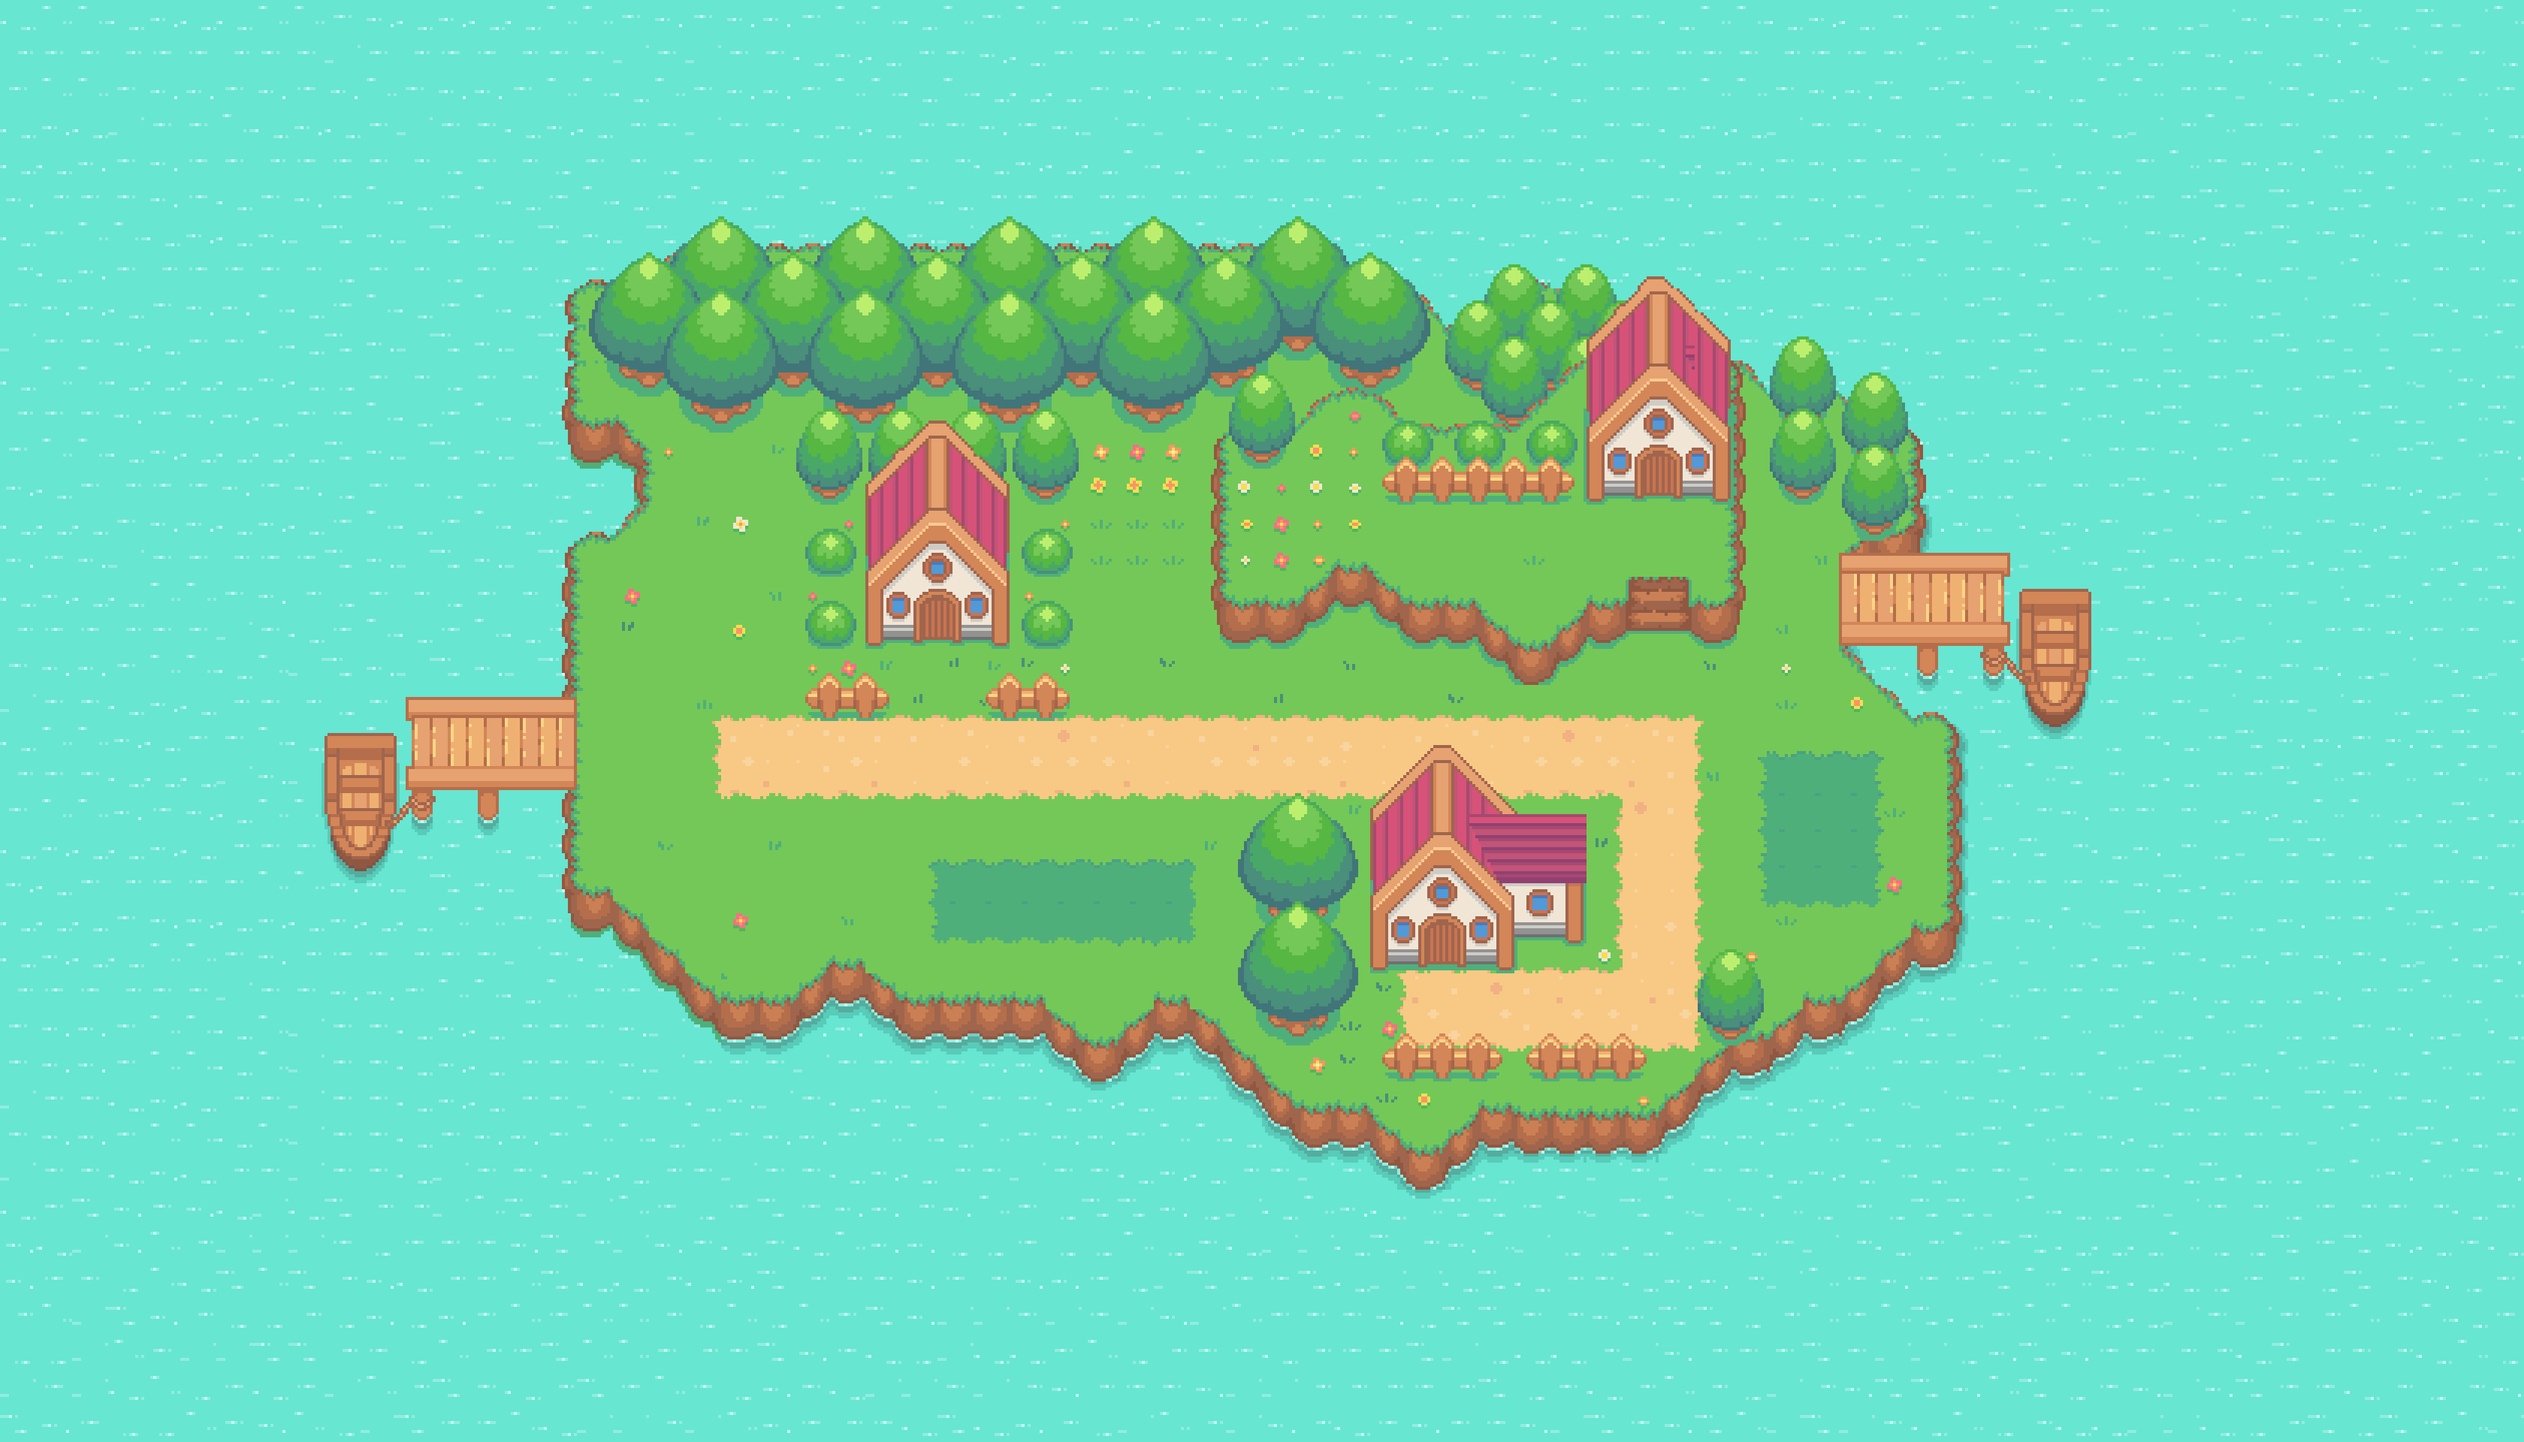
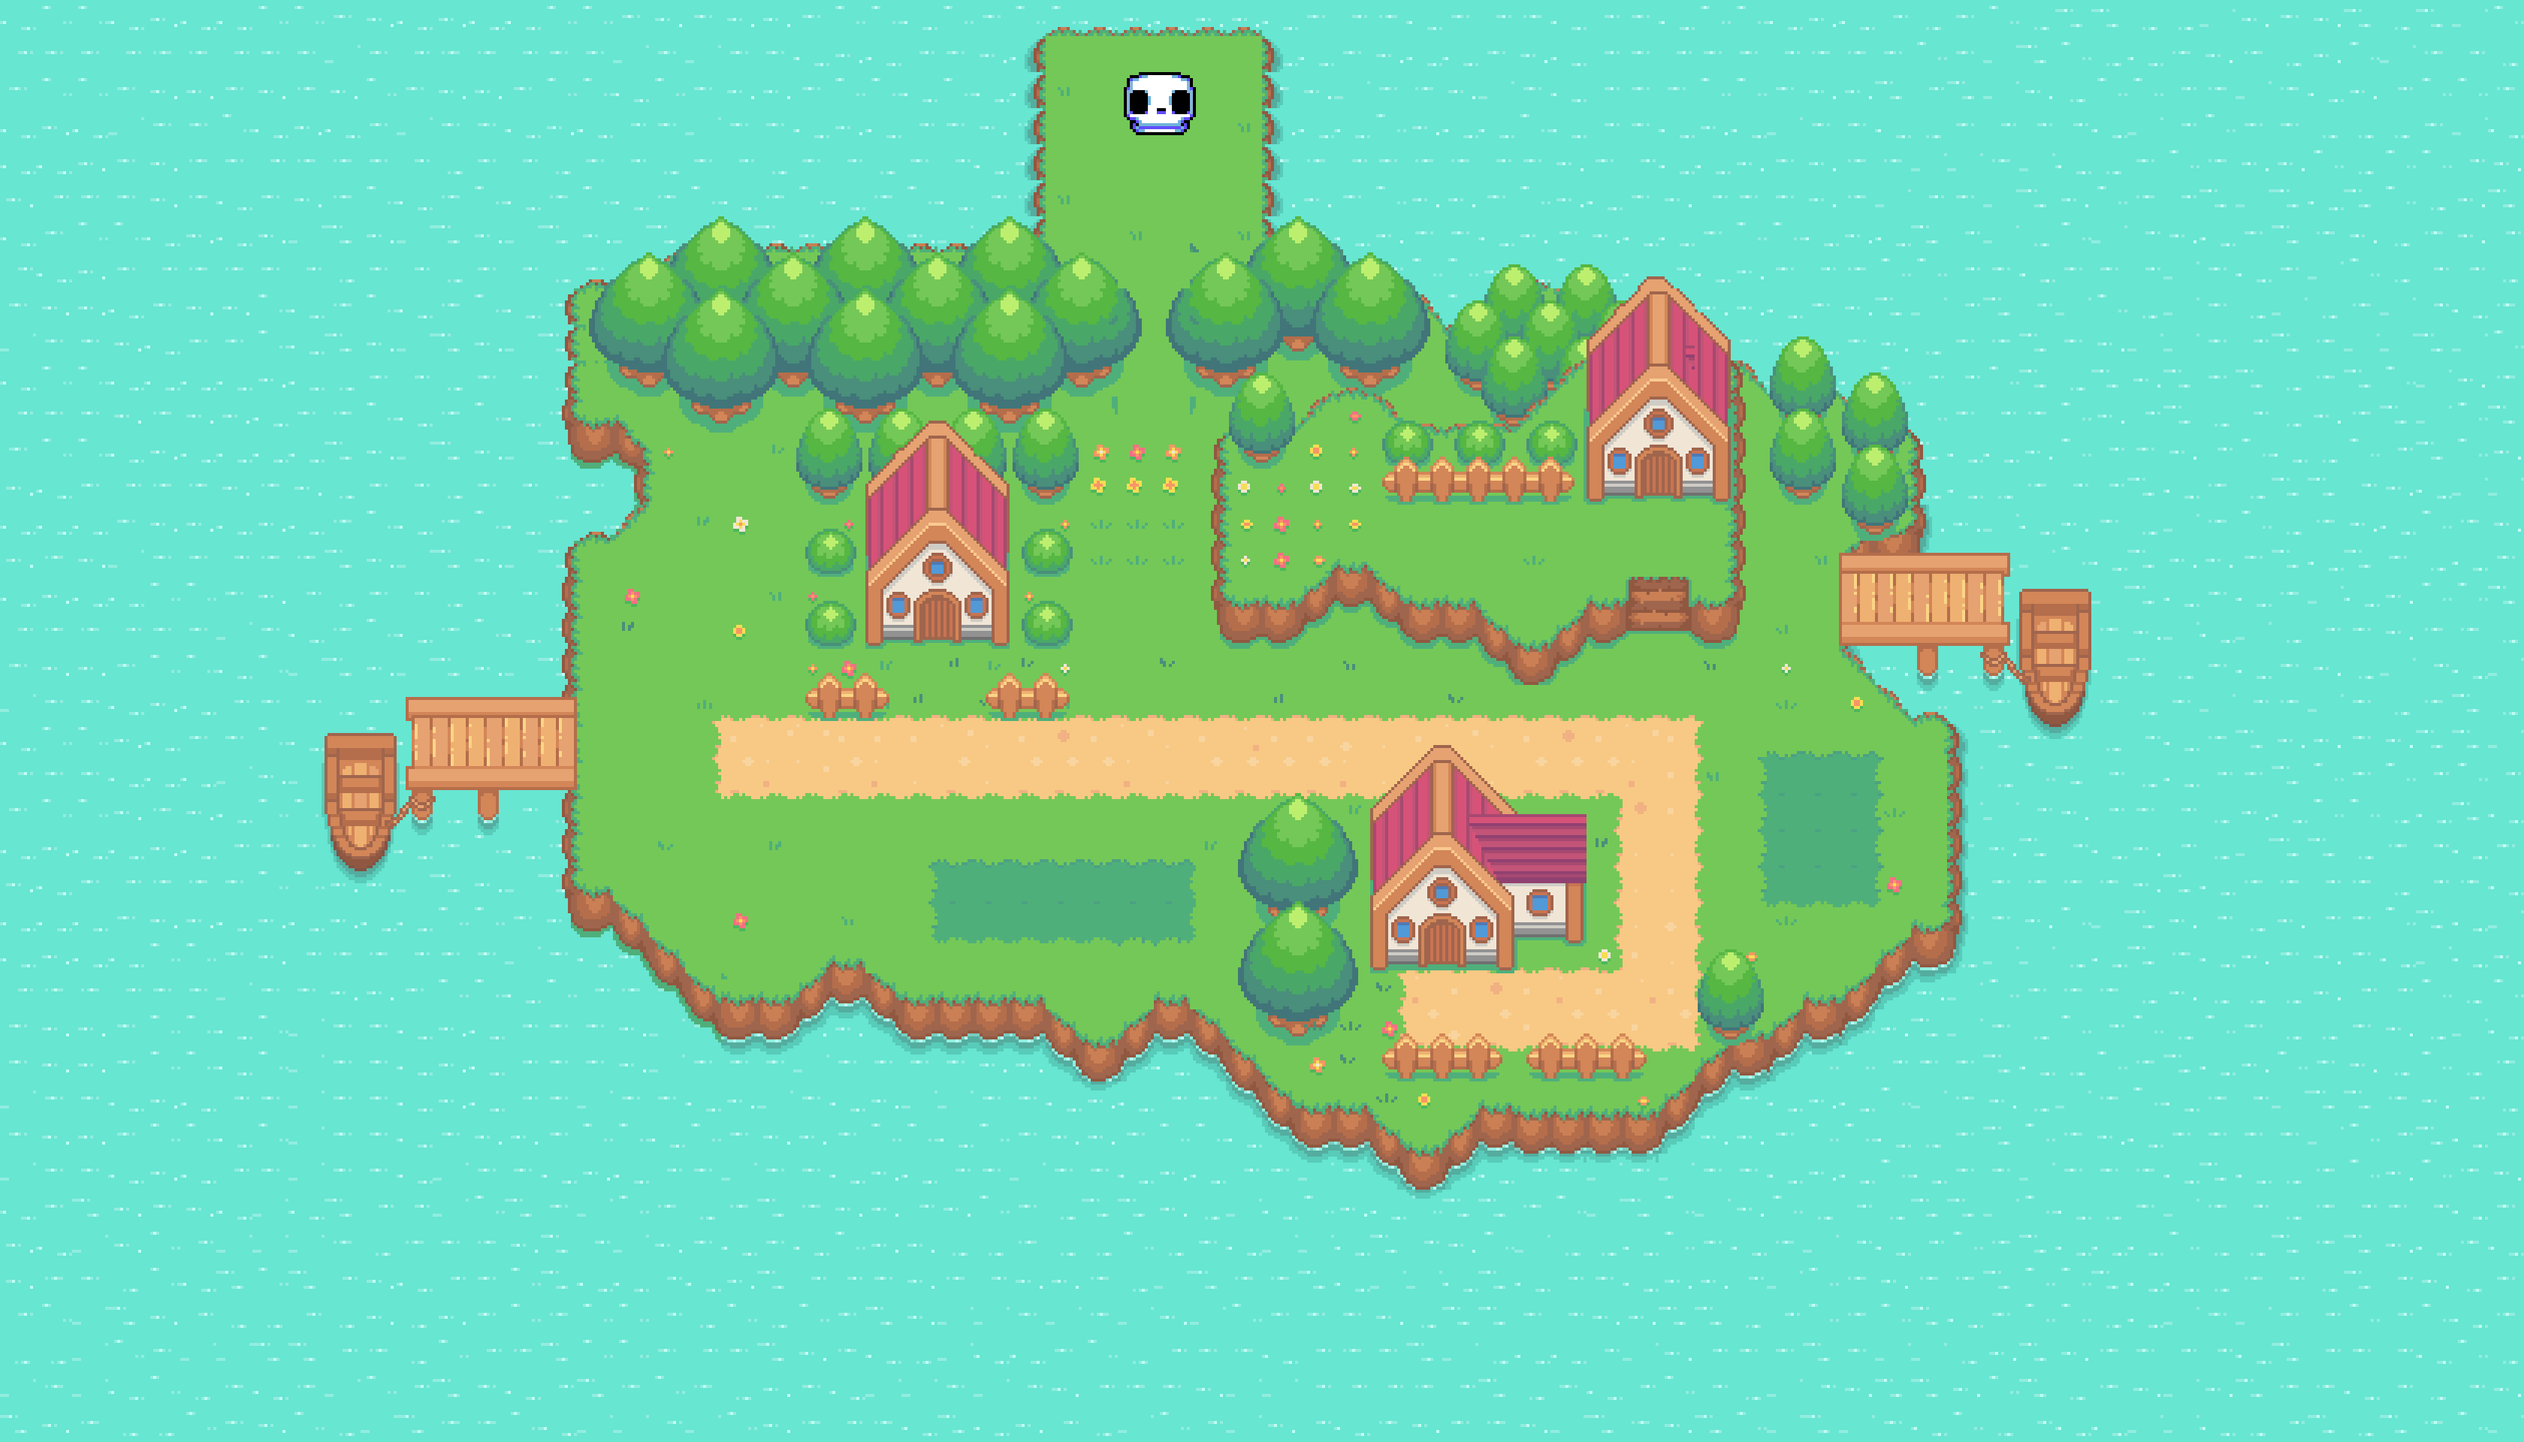
update, gameover screen has a link to go back to the main game, work on getting the collision to dissapier where the Skull is?

Changed region(s): [[0.4062, 0.0, 0.5312, 0.3125]]

diff --git a/mainGame/battleScene.js b/mainGame/battleScene.js
@@ -80,6 +80,19 @@ emby.attacks.forEach((attack) =>{
            opacity: 0
          })
          battle.initiated = false
+         //checks a specif area in the array in collisions2, it starts on the 200 number and stops at the 250 number(0)
+        //  for (let i = 0; i < 1500; i++){
+        //   if (collisions2[i] == 1000){
+        //     console.log(i)
+        //   }
+        //   else{
+        //     console.log(collisions2[i])
+        //   }
+        //  }
+          // collisions2[801] = 0
+          // collisions2[802] = 0
+        
+        
          audio.Map.play()
        }
      })
@@ -101,10 +114,11 @@ draggle.attack({
 if(emby.health <= 0){
  queue.push(() => {
   emby.faint()
-    //fades back to black
+    //fades to game over screen
     gsap.to('#gameover', {
       opacity: 1,
-      yoyo: true,
+      // yoyo: true,
+      // repeat: 5,
       onComplete: () => {
         cancelAnimationFrame(battleAnimationId)
         // animate()
@@ -112,48 +126,58 @@ if(emby.health <= 0){
           opacity: 0
         })
         document.querySelector('#userInterface').style.display = 'none'
-        gsap.to('#canvas', {
-          opacity: 0
-        })
-
-        // gsap.to('#overlappingDIV',{
+        // gsap.to('#canvas', {
         //   opacity: 0
         // })
+
+        gsap.to('#gameover',{
+          opacity: 0,
+          yoyo:true,
+          repeat:5
+        })
   
         document.querySelector('#canvas').remove()
         document.querySelector('#gameover').style.display = 'flex'
-        document.querySelector('#gameover').innerHTML = monsters.Emby.name + " has faded into nothing, "
-         + "\n"+ "try again?"
         var gameoverLayer = document.querySelector('#gameover')
         gameoverLayer.style.width = `${window.innerWidth}px`
         gameoverLayer.style.height = `${window.innerHeight}px`
+        
         gameoverLayer.style.background = 'green'
-        gameoverLayer.style.top = `${window.visualViewport.pageTop}px`
-        gameoverLayer.style.left = `${window.visualViewport.pageLeft}px`
+        gameoverLayer.style.top = `${window.visualViewport.pageTop - 20}px`
+        gameoverLayer.style.left = `${window.visualViewport.pageLeft - 9}px`
         gameoverLayer.style.position = 'absolute'
         // gameoverLayer.style.border = 'solid white 10px'
         gameoverLayer.style.justifyContent = 'center'
         gameoverLayer.style.alignItems = 'center'
+         
+        var gameOverText = document.querySelector('#gameOverText')
+        gameOverText.innerHTML = monsters.Emby.name + " has faded into nothing,"
+         gameOverText.style.border = 'solid 2px red'
+         gameOverText.style.display = 'block'
+         var current = window.location.href
+         console.log(current)
+         var anchorGameOver = document.createElement('a')
+         anchorGameOver.href = "./index.html"
+         anchorGameOver.innerHTML = 'Try again?'
+         gameOverText.append(anchorGameOver)
+        //  var path = current.split('mainGame')
+        //  setTimeout(() => {
+        //   window.location.href = `${path[0]}mainGame/index.html`
+        //  }, 500)
+        
 
-        // gsap.to('#overlappingGameOver', {
-        //   opacity: 0
-        // })
         battle.initiated = false
         // audio.Map.play()
       }
-    })
-  //  var current = window.location.href
-  //  console.log(current)
-  //  var path = current.split('mainGame')
-  //  setTimeout(() => {
-  //   window.location.href = `${path[0]}mainGame/end.html`
-  //  }, 500)
-  
-//  })
-// //  queue.push(() => {
-
+      
+    }
+    )
+ 
   
  })
+//  queue.push(() => {
+  
+//  })
 }
 })
 }

diff --git a/mainGame/index.html b/mainGame/index.html
@@ -78,40 +78,16 @@
             display: none;
             padding: 12px;
             "  > Hello Andrew</div>
-
-<!-- <div id="overlappingGameOver"
-style="background-color: black;
-width: 200px;
-height: 200px;
-position: absolute;
- /* top:0; */
-  /* right: 0; */
-   /* left:0; */
-    /* bottom: 0; */
-     opacity: 0;
-      pointer-events: none;
-      z-index: 10;"
-> 
-< <div id="text" style="
-/* border: 2px solid red; */
-/* color:blue; */
-/* position: absolute; */
-">
-
-</div> -->
-<!-- <div id= 'text' style="color: white;"></div> -->
-<!-- </div> -->
         </div>
 
+        <div id="gameover" style="display: none;">
+            <div id="gameOverText" style=" display: none;">
+            </div>
+        </div>
        
-      
-
-        <div id="gameover" style="display: none;"></div>
     <canvas id="canvas"></canvas>
     <!-- NPC dialogue Box -->
 
-          
-   
     <div id="userInterface" style="display: none;">
         <!-- need wrapper div, it will allow us to add padding, similar to the first dialogue box, change original positions of the monsters and original position of the battle background  -->
         <!-- Represents Health bar of draggle --->

diff --git a/mainGame/data/attacks.js b/mainGame/data/attacks.js
@@ -7,7 +7,7 @@ const attacks = {
           },
     Fireball: {
         name: 'Fireball',
-        damage: 20,
+        damage: 100,
         type: 'Fire',
         color: 'red'
     },
